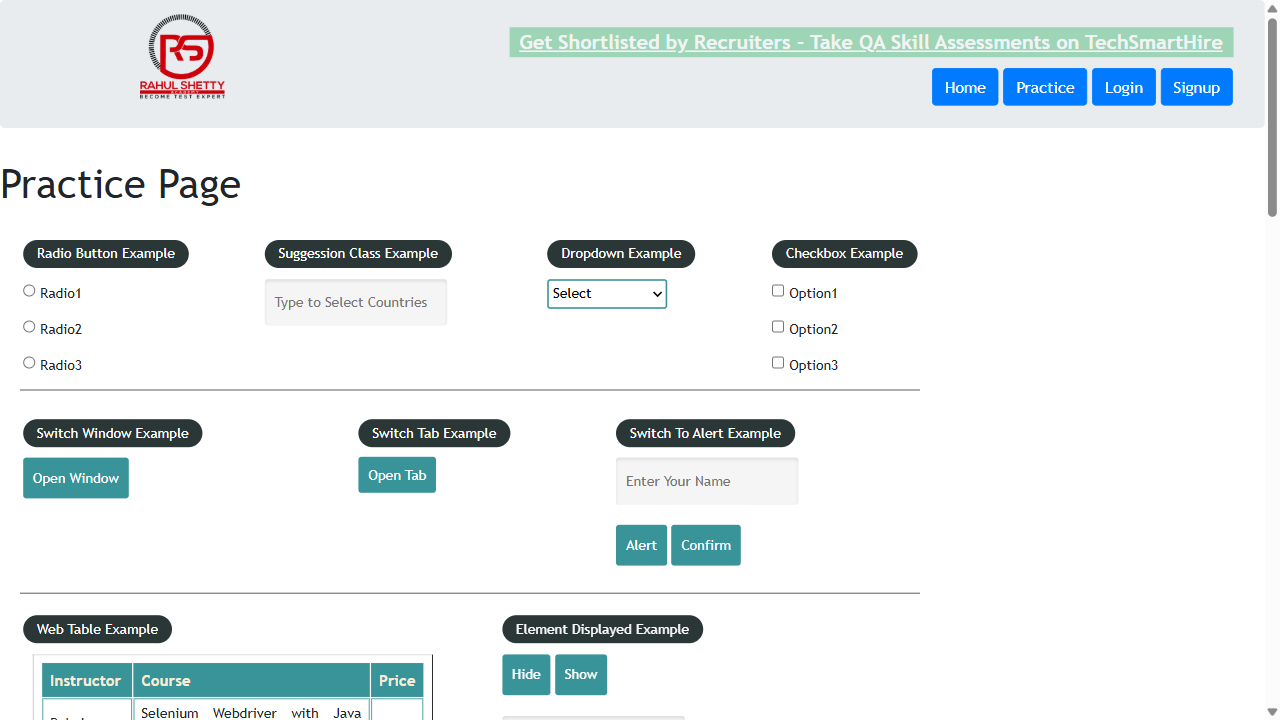
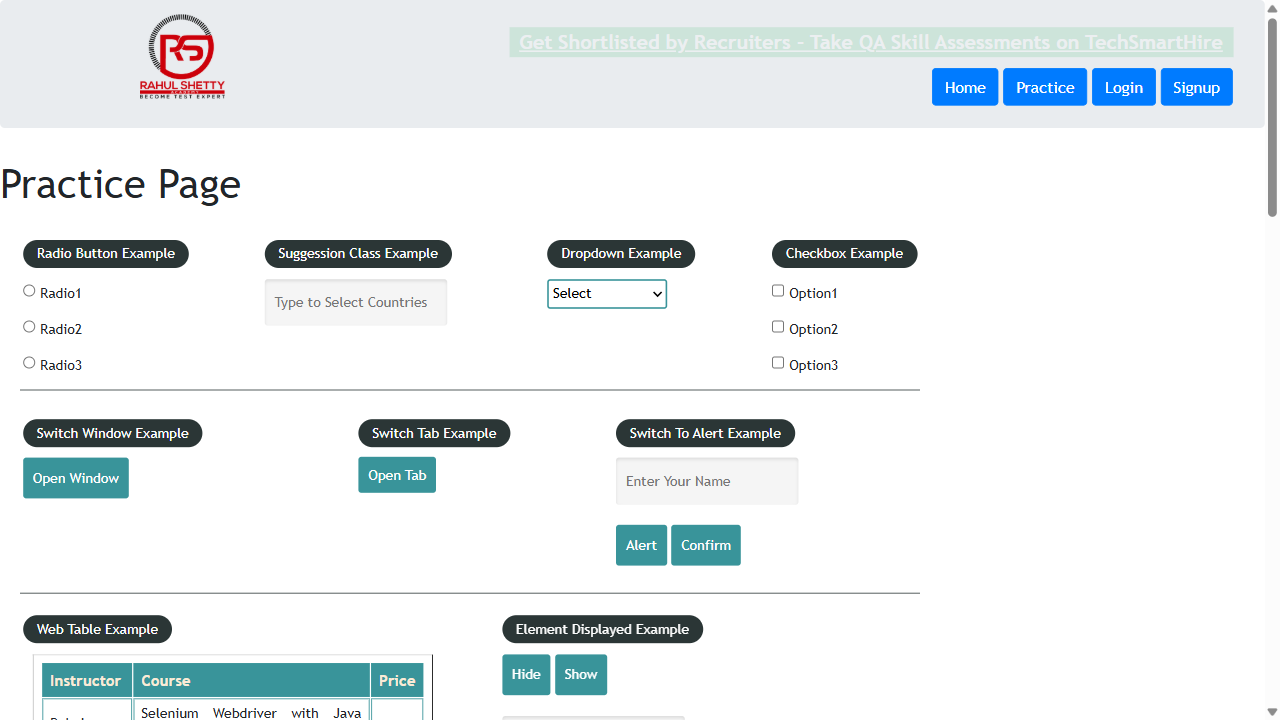
CICD commit

Changed region(s): [[0.375, 0.0306, 0.9688, 0.0917]]

diff --git a/src/test/java/tests/TestBase1.java b/src/test/java/tests/TestBase1.java
@@ -20,7 +20,9 @@ public class TestBase1 {
         Properties prop = new Properties();
         FileInputStream fis = new FileInputStream("C:\\Users\\mohit\\IdeaProjects\\PlaywrightFramework\\src\\test\\resources\\config.properties");
         prop.load(fis);
-        String browserName = prop.getProperty("browser");
+        String browserName = System.getProperty("browser")!=null ? System.getProperty("browser")
+                : prop.getProperty("browser");
+        //String browserName = prop.getProperty("browser");
 
         playwright = Playwright.create();
 
